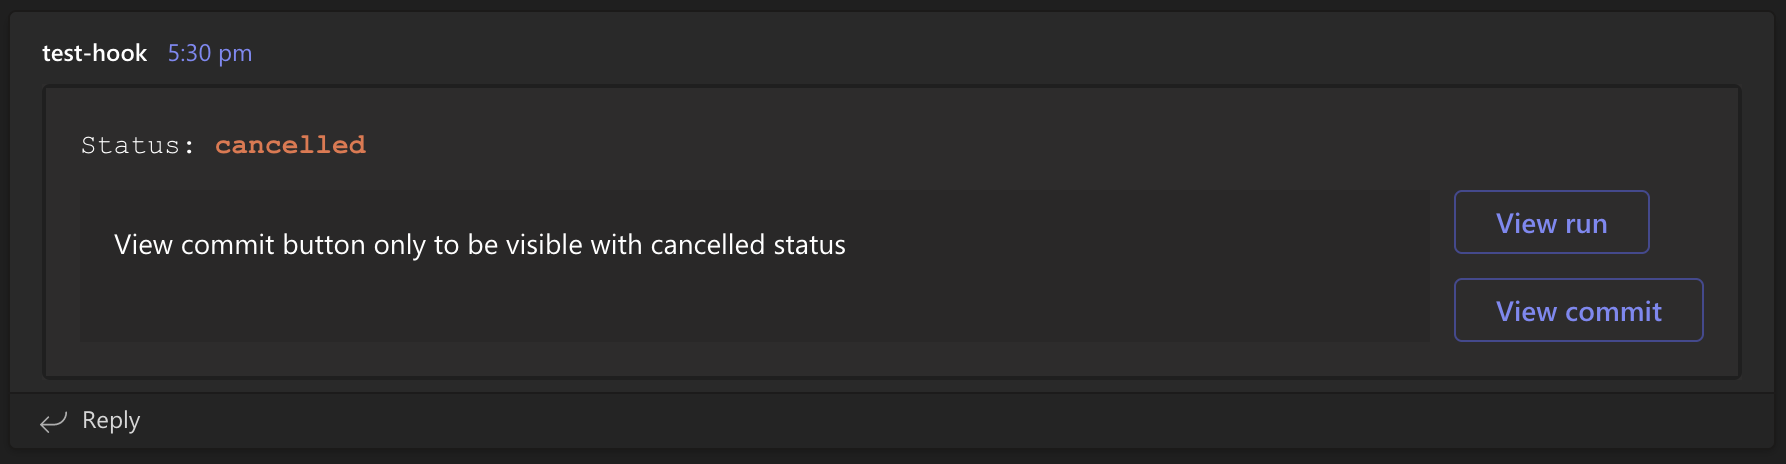
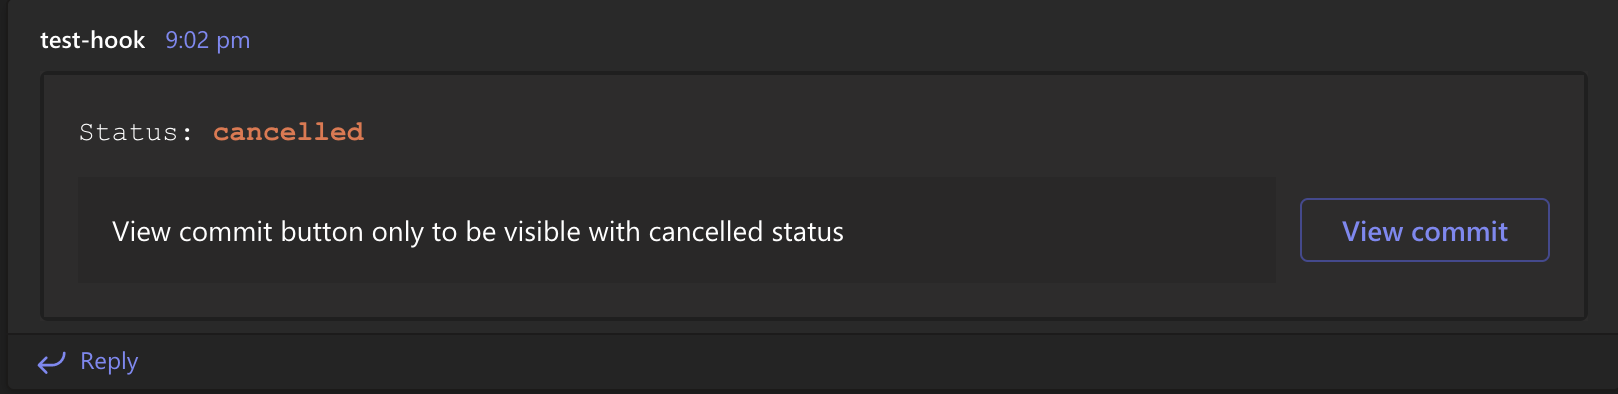
#12 Fix screenshot, test

diff --git a/test/http-request-tests/url-buttons.test.js b/test/http-request-tests/url-buttons.test.js
@@ -7,11 +7,14 @@ describe('Post message with job status', () => {
     const SHOULD_DISPLAY_VIEW_RUN_BUTTON = "SHOULD_DISPLAY_VIEW_RUN_BUTTON";
 
     beforeAll(() => {
-        delete process.env[SHOULD_DISPLAY_VIEW_COMMIT_BUTTON];
-        delete process.env[SHOULD_DISPLAY_VIEW_RUN_BUTTON];
         if(!_teamsIncomingHookUrl) {
             throw new Error('Teams webhook url not found in environment variable "TEAMS_TEST_HOOK_URL"');
         }
+    });
+
+    beforeEach(() => {
+        delete process.env[SHOULD_DISPLAY_VIEW_COMMIT_BUTTON];
+        delete process.env[SHOULD_DISPLAY_VIEW_RUN_BUTTON];
     });
 
     test('Both buttons to be visible with status', async () => {

diff --git a/README.md b/README.md
@@ -108,7 +108,7 @@ steps:
 ![skipped status with only view run button sample screenshot](screenshots/skipped-only-view-run-button.png)
 
 
-4. Status = "cancelled", "View run" and "View commit" buttons enabled
+4. Status = "cancelled", only "View commit" button enabled
 ![cancelled status sample screenshot](screenshots/cancelled-message.png)
 
 
